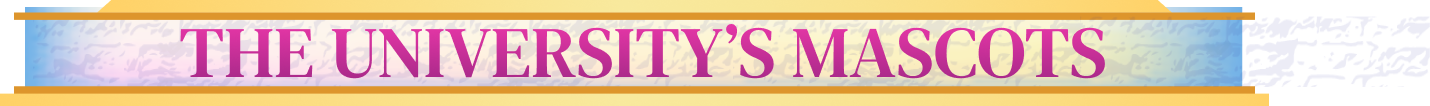
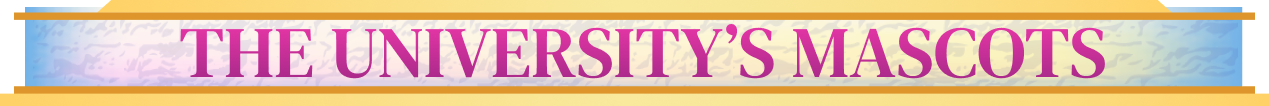
about-page done

diff --git a/app/about/components/mascots.css b/app/about/components/mascots.css
@@ -4,8 +4,8 @@
     display: flex;
     flex-direction: column;
     align-items: center;
+    justify-content: center;
     width: 100%;
-    min-height: 100vh;
     overflow: visible;
     z-index: 20;
 }
@@ -28,13 +28,32 @@
     display: block;
 }
 
+.baloon-layer {
+    position: absolute;
+    top: 0;
+    left: 0;
+    width: 100%;
+    display: flex;
+    flex-direction: row;
+    justify-content: space-between;
+    align-items: flex-start;
+    z-index: 2;
+    pointer-events: none;
+}
+
+.baloon-left,
+.baloon-right {
+    display: block;
+}
+
+/* pillars sit above the bushes (5) and the title (3) */
 .mascots-pillar-left {
     position: absolute;
     top: 0;
     left: 0;
     height: 100%;
     width: auto;
-    z-index: 2;
+    z-index: 6;
     pointer-events: none;
 }
 
@@ -44,7 +63,7 @@
     right: 0;
     height: 100%;
     width: auto;
-    z-index: 2;
+    z-index: 6;
     pointer-events: none;
 }
 
@@ -143,6 +162,20 @@
         margin-top: -5.5rem;
     }
 
+    .baloon-left {
+        width: 11rem;
+        height: auto;
+        margin-top: 4rem;
+        margin-left: 9rem;
+    }
+
+    .baloon-right {
+        width: 15rem;
+        height: auto;
+        margin-top: -5rem;
+        margin-right: 9rem;
+    }
+
     .mascot-ring {
         width: 42rem;
         height: auto;
@@ -153,6 +186,14 @@
         height: auto;
         margin-top: 2rem;
         margin-bottom: 4rem;
+    }
+    .mascot-wrapper{
+        margin-bottom: 5rem;
+        margin-top: 5rem;
+    }
+    .fireworks-bottom{
+        margin-bottom: 5rem;
+        width: 100%;
     }
 }
 @media (max-width: 1440px) and (max-height: 641px) {}

diff --git a/app/about/components/mascots.tsx b/app/about/components/mascots.tsx
@@ -9,6 +9,20 @@ export default function Mascots() {
         <img src="/assets/about/bush-right.png" alt="" className="bush-right" />
       </div>
 
+      {/* balloons hang from the top corners, just inside the pillars */}
+      <div className="baloon-layer">
+        <img
+          src="/assets/about/baloon-left.png"
+          alt=""
+          className="baloon-left"
+        />
+        <img
+          src="/assets/about/baloon-right.png"
+          alt=""
+          className="baloon-right"
+        />
+      </div>
+
       <img
         src="/assets/about/pillar-left-bottom.png"
         alt=""

diff --git a/app/about/styles.css b/app/about/styles.css
@@ -17,10 +17,10 @@
     z-index: 0;
     background: linear-gradient(
         180deg,
-        #dcaeeb 0%,
-        #63b3f5 34%,
-        #b4d7f5 62%,
-        #ffed8f 100%
+        #dcaeeb 5%,
+        #63b3f5 50%,
+        #b4d7f5 67%,
+        #ffed8f 120%
     );
 }
 

diff --git a/app/about/components/hero-section.css b/app/about/components/hero-section.css
@@ -67,7 +67,7 @@
 @media (max-width: 1528px) and (max-height: 732px) {}
 @media (max-width: 1512px) and (max-height: 982px) {
     .tentang-desc {
-        width: 50rem;
+        width: 62rem;
         height: auto;
         margin-top: 2rem;
         margin-bottom: 2rem;
